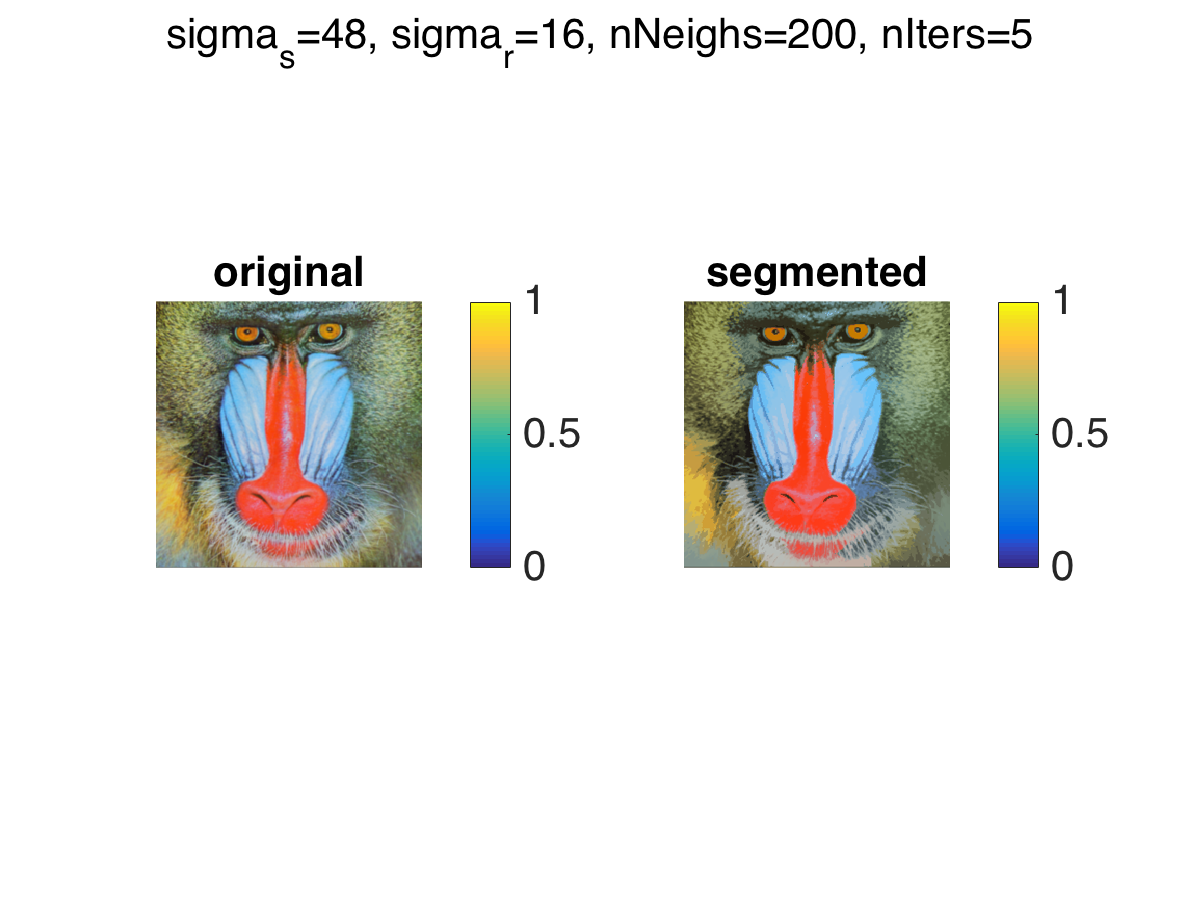
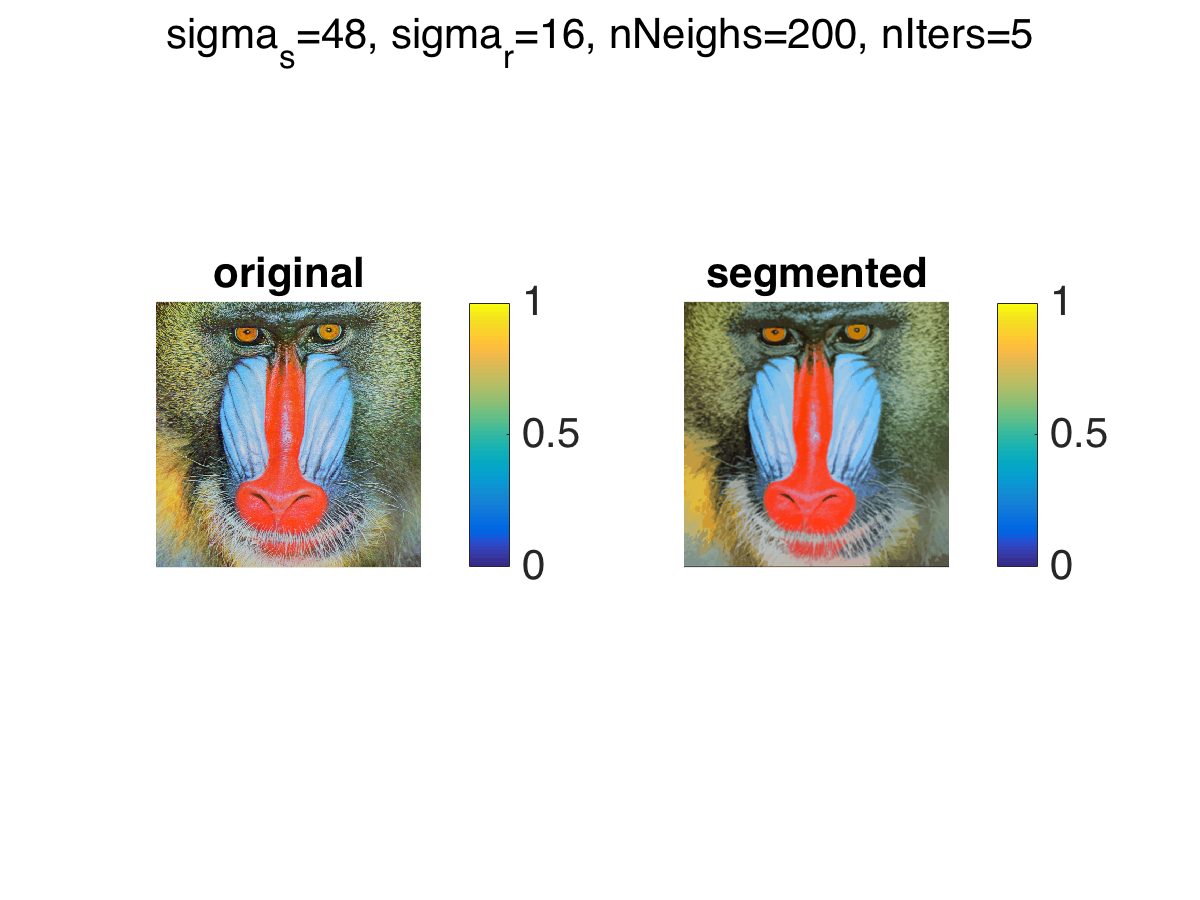
Generated report for Q2

diff --git a/assignment3_Segmentation/2/report/report.html b/assignment3_Segmentation/2/report/report.html
@@ -1,0 +1,197 @@
+
+<!DOCTYPE html
+  PUBLIC "-//W3C//DTD HTML 4.01 Transitional//EN">
+<html><head>
+      <meta http-equiv="Content-Type" content="text/html; charset=utf-8">
+   <!--
+This HTML was auto-generated from MATLAB code.
+To make changes, update the MATLAB code and republish this document.
+      --><title>MyMainScript</title><meta name="generator" content="MATLAB 8.6"><link rel="schema.DC" href="http://purl.org/dc/elements/1.1/"><meta name="DC.date" content="2017-09-02"><meta name="DC.source" content="myMainScript.m"><style type="text/css">
+html,body,div,span,applet,object,iframe,h1,h2,h3,h4,h5,h6,p,blockquote,pre,a,abbr,acronym,address,big,cite,code,del,dfn,em,font,img,ins,kbd,q,s,samp,small,strike,strong,sub,sup,tt,var,b,u,i,center,dl,dt,dd,ol,ul,li,fieldset,form,label,legend,table,caption,tbody,tfoot,thead,tr,th,td{margin:0;padding:0;border:0;outline:0;font-size:100%;vertical-align:baseline;background:transparent}body{line-height:1}ol,ul{list-style:none}blockquote,q{quotes:none}blockquote:before,blockquote:after,q:before,q:after{content:'';content:none}:focus{outine:0}ins{text-decoration:none}del{text-decoration:line-through}table{border-collapse:collapse;border-spacing:0}
+
+html { min-height:100%; margin-bottom:1px; }
+html body { height:100%; margin:0px; font-family:Arial, Helvetica, sans-serif; font-size:10px; color:#000; line-height:140%; background:#fff none; overflow-y:scroll; }
+html body td { vertical-align:top; text-align:left; }
+
+h1 { padding:0px; margin:0px 0px 25px; font-family:Arial, Helvetica, sans-serif; font-size:1.5em; color:#d55000; line-height:100%; font-weight:normal; }
+h2 { padding:0px; margin:0px 0px 8px; font-family:Arial, Helvetica, sans-serif; font-size:1.2em; color:#000; font-weight:bold; line-height:140%; border-bottom:1px solid #d6d4d4; display:block; }
+h3 { padding:0px; margin:0px 0px 5px; font-family:Arial, Helvetica, sans-serif; font-size:1.1em; color:#000; font-weight:bold; line-height:140%; }
+
+a { color:#005fce; text-decoration:none; }
+a:hover { color:#005fce; text-decoration:underline; }
+a:visited { color:#004aa0; text-decoration:none; }
+
+p { padding:0px; margin:0px 0px 20px; }
+img { padding:0px; margin:0px 0px 20px; border:none; }
+p img, pre img, tt img, li img, h1 img, h2 img { margin-bottom:0px; } 
+
+ul { padding:0px; margin:0px 0px 20px 23px; list-style:square; }
+ul li { padding:0px; margin:0px 0px 7px 0px; }
+ul li ul { padding:5px 0px 0px; margin:0px 0px 7px 23px; }
+ul li ol li { list-style:decimal; }
+ol { padding:0px; margin:0px 0px 20px 0px; list-style:decimal; }
+ol li { padding:0px; margin:0px 0px 7px 23px; list-style-type:decimal; }
+ol li ol { padding:5px 0px 0px; margin:0px 0px 7px 0px; }
+ol li ol li { list-style-type:lower-alpha; }
+ol li ul { padding-top:7px; }
+ol li ul li { list-style:square; }
+
+.content { font-size:1.2em; line-height:140%; padding: 20px; }
+
+pre, code { font-size:12px; }
+tt { font-size: 1.2em; }
+pre { margin:0px 0px 20px; }
+pre.codeinput { padding:10px; border:1px solid #d3d3d3; background:#f7f7f7; }
+pre.codeoutput { padding:10px 11px; margin:0px 0px 20px; color:#4c4c4c; }
+pre.error { color:red; }
+
+@media print { pre.codeinput, pre.codeoutput { word-wrap:break-word; width:100%; } }
+
+span.keyword { color:#0000FF }
+span.comment { color:#228B22 }
+span.string { color:#A020F0 }
+span.untermstring { color:#B20000 }
+span.syscmd { color:#B28C00 }
+
+.footer { width:auto; padding:10px 0px; margin:25px 0px 0px; border-top:1px dotted #878787; font-size:0.8em; line-height:140%; font-style:italic; color:#878787; text-align:left; float:none; }
+.footer p { margin:0px; }
+.footer a { color:#878787; }
+.footer a:hover { color:#878787; text-decoration:underline; }
+.footer a:visited { color:#878787; }
+
+table th { padding:7px 5px; text-align:left; vertical-align:middle; border: 1px solid #d6d4d4; font-weight:bold; }
+table td { padding:7px 5px; text-align:left; vertical-align:top; border:1px solid #d6d4d4; }
+
+
+
+
+
+  </style></head><body><div class="content"><h1>MyMainScript</h1><pre class="codeinput">parameters = [
+        8, 24, 100, 5;
+        8, 24, 100, 10;
+        8, 24, 100, 20;
+
+        8, 24, 50, 10;
+        8, 24, 200, 10;
+        8, 24, 300, 10;
+
+        16, 16, 200, 10;
+
+        24, 8, 200, 10;
+    ];
+
+<span class="comment">% myMeanShiftSegmentation(16, 16, 200, 10);</span>
+<span class="comment">% myMeanShiftSegmentation(8, 24, 100, 5);</span>
+<span class="comment">% myMeanShiftSegmentation(2, 2, 200, 10); % --&gt; not good</span>
+<span class="comment">% myMeanShiftSegmentation(16, 24, 200, 10); % --&gt; good</span>
+<span class="comment">% myMeanShiftSegmentation(8, 24, 100, 5);</span>
+
+<span class="keyword">for</span> i = 1:8
+    tic;
+    sigma_S = parameters(i, 1);
+    sigma_I = parameters(i, 2);
+    noOfNeighbours = parameters(i, 3);
+    max_iter = parameters(i, 4);
+    myMeanShiftSegmentation(sigma_S, sigma_I, noOfNeighbours, max_iter);
+    toc;
+<span class="keyword">end</span>
+</pre><pre class="codeoutput">running mean shift segmentation..
+sigma_S : 8
+sigma_I : 24
+no. of neighbours : 100
+no. of iterations : 5
+saving ouput image..
+done
+Elapsed time is 10.829627 seconds.
+running mean shift segmentation..
+sigma_S : 8
+sigma_I : 24
+no. of neighbours : 100
+no. of iterations : 10
+saving ouput image..
+done
+Elapsed time is 21.263854 seconds.
+running mean shift segmentation..
+sigma_S : 8
+sigma_I : 24
+no. of neighbours : 100
+no. of iterations : 20
+saving ouput image..
+done
+Elapsed time is 37.956177 seconds.
+running mean shift segmentation..
+sigma_S : 8
+sigma_I : 24
+no. of neighbours : 50
+no. of iterations : 10
+saving ouput image..
+done
+Elapsed time is 12.002758 seconds.
+running mean shift segmentation..
+sigma_S : 8
+sigma_I : 24
+no. of neighbours : 200
+no. of iterations : 10
+saving ouput image..
+done
+Elapsed time is 36.942485 seconds.
+running mean shift segmentation..
+sigma_S : 8
+sigma_I : 24
+no. of neighbours : 300
+no. of iterations : 10
+saving ouput image..
+done
+Elapsed time is 61.130641 seconds.
+running mean shift segmentation..
+sigma_S : 16
+sigma_I : 16
+no. of neighbours : 200
+no. of iterations : 10
+saving ouput image..
+done
+Elapsed time is 42.538970 seconds.
+running mean shift segmentation..
+sigma_S : 24
+sigma_I : 8
+no. of neighbours : 200
+no. of iterations : 10
+saving ouput image..
+done
+Elapsed time is 46.707676 seconds.
+</pre><img vspace="5" hspace="5" src="myMainScript_01.png" style="width:1440px;height:736px;" alt=""> <img vspace="5" hspace="5" src="myMainScript_02.png" style="width:1440px;height:713px;" alt=""> <img vspace="5" hspace="5" src="myMainScript_03.png" style="width:1440px;height:713px;" alt=""> <img vspace="5" hspace="5" src="myMainScript_04.png" style="width:1440px;height:713px;" alt=""> <img vspace="5" hspace="5" src="myMainScript_05.png" style="width:1440px;height:713px;" alt=""> <img vspace="5" hspace="5" src="myMainScript_06.png" style="width:1440px;height:713px;" alt=""> <img vspace="5" hspace="5" src="myMainScript_07.png" style="width:1440px;height:713px;" alt=""> <img vspace="5" hspace="5" src="myMainScript_08.png" style="width:1440px;height:713px;" alt=""> <p class="footer"><br><a href="http://www.mathworks.com/products/matlab/">Published with MATLAB&reg; R2015b</a><br></p></div><!--
+##### SOURCE BEGIN #####
+%% MyMainScript
+
+parameters = [
+        8, 24, 100, 5;
+        8, 24, 100, 10;
+        8, 24, 100, 20;
+        
+        8, 24, 50, 10;
+        8, 24, 200, 10;
+        8, 24, 300, 10;
+        
+        16, 16, 200, 10;
+        
+        24, 8, 200, 10;
+    ];
+
+% myMeanShiftSegmentation(16, 16, 200, 10);
+% myMeanShiftSegmentation(8, 24, 100, 5);
+% myMeanShiftSegmentation(2, 2, 200, 10); % REPLACE_WITH_DASH_DASH> not good
+% myMeanShiftSegmentation(16, 24, 200, 10); % REPLACE_WITH_DASH_DASH> good
+% myMeanShiftSegmentation(8, 24, 100, 5);
+
+for i = 1:8
+    tic;
+    sigma_S = parameters(i, 1);
+    sigma_I = parameters(i, 2);
+    noOfNeighbours = parameters(i, 3);
+    max_iter = parameters(i, 4);
+    myMeanShiftSegmentation(sigma_S, sigma_I, noOfNeighbours, max_iter);
+    toc;
+end
+
+##### SOURCE END #####
+--></body></html>

diff --git a/assignment3_Segmentation/2/code/myMeanShiftSegmentation.m b/assignment3_Segmentation/2/code/myMeanShiftSegmentation.m
@@ -48,7 +48,7 @@ function [] = myMeanShiftSegmentation(sigma_S, sigma_I, noOfNeighbours, max_iter
     ii = 0;
     while (ii < max_iter)
 
-        disp(strcat(['iteration : ', num2str(ii + 1)]));
+        % disp(strcat(['iteration : ', num2str(ii + 1)]));
 
         % do a KNN search
         % Idx(i, :) -> indices of nearest neighbours of point i
@@ -96,25 +96,34 @@ function [] = myMeanShiftSegmentation(sigma_S, sigma_I, noOfNeighbours, max_iter
                     ', nNeighs=', num2str(noOfNeighbours), ...
                     ', nIters=', num2str(max_iter)]);
 
-    figure();
+    
+    iptsetpref('ImshowAxesVisible','on');
+	figure('units','normalized','outerposition',[0 0 1 1])
     suptitle(fig_title);
 
     subplot(1, 2, 1);
-    imshow(I), colorbar;
-    title('original');
+    I = mat2gray(imread('../data/baboonColor.png'));
+    imagesc(I);
+    daspect ([1 1 1]);
+    axis tight;
+    colorbar;
+    title('original image');
 
     subplot(1, 2, 2);
-    imshow(O), colorbar;
-    title('segmented');
+    imagesc(O);
+    daspect ([1 1 1]);
+    axis tight;
+    colorbar;
+    title('segmented image');
 
     set(findall(gcf,'-property','FontSize'),'FontSize',20)
 
     % save image as `seg_<sigma_S>_<sigma_I>_<noOfNeighbours>_<max_iter>.png`
-    file_name = strcat(['../images/seg_', num2str(sigma_S), '_', ...
-                                num2str(sigma_I), '_'], ...
-                                num2str(noOfNeighbours), '_', ...
-                                num2str(max_iter), '.png');
-    saveas(gcf, file_name);
+    % file_name = strcat(['../images/seg_', num2str(sigma_S), '_', ...
+    %                             num2str(sigma_I), '_'], ...
+    %                             num2str(noOfNeighbours), '_', ...
+    %                             num2str(max_iter), '.png');
+    % saveas(gcf, file_name);
     disp('done');
 end
 

diff --git a/assignment3_Segmentation/2/code/myMainScript.m b/assignment3_Segmentation/2/code/myMainScript.m
@@ -1,8 +1,31 @@
 %% MyMainScript
 
-tic;
+parameters = [
+        8, 24, 100, 5;
+        8, 24, 100, 10;
+        8, 24, 100, 20;
+        
+        8, 24, 50, 10;
+        8, 24, 200, 10;
+        8, 24, 300, 10;
+        
+        16, 16, 200, 10;
+        
+        24, 8, 200, 10;
+    ];
+
 % myMeanShiftSegmentation(16, 16, 200, 10);
-% myMeanShiftSegmentation(48, 16, 200, 5);
-% myMeanShiftSegmentation(2, 2, 200, 10);
-myMeanShiftSegmentation(16, 24, 200, 10);
-toc;
+% myMeanShiftSegmentation(8, 24, 100, 5);
+% myMeanShiftSegmentation(2, 2, 200, 10); % --> not good
+% myMeanShiftSegmentation(16, 24, 200, 10); % --> good
+% myMeanShiftSegmentation(8, 24, 100, 5);
+
+for i = 1:8
+    tic;
+    sigma_S = parameters(i, 1);
+    sigma_I = parameters(i, 2);
+    noOfNeighbours = parameters(i, 3);
+    max_iter = parameters(i, 4);
+    myMeanShiftSegmentation(sigma_S, sigma_I, noOfNeighbours, max_iter);
+    toc;
+end
